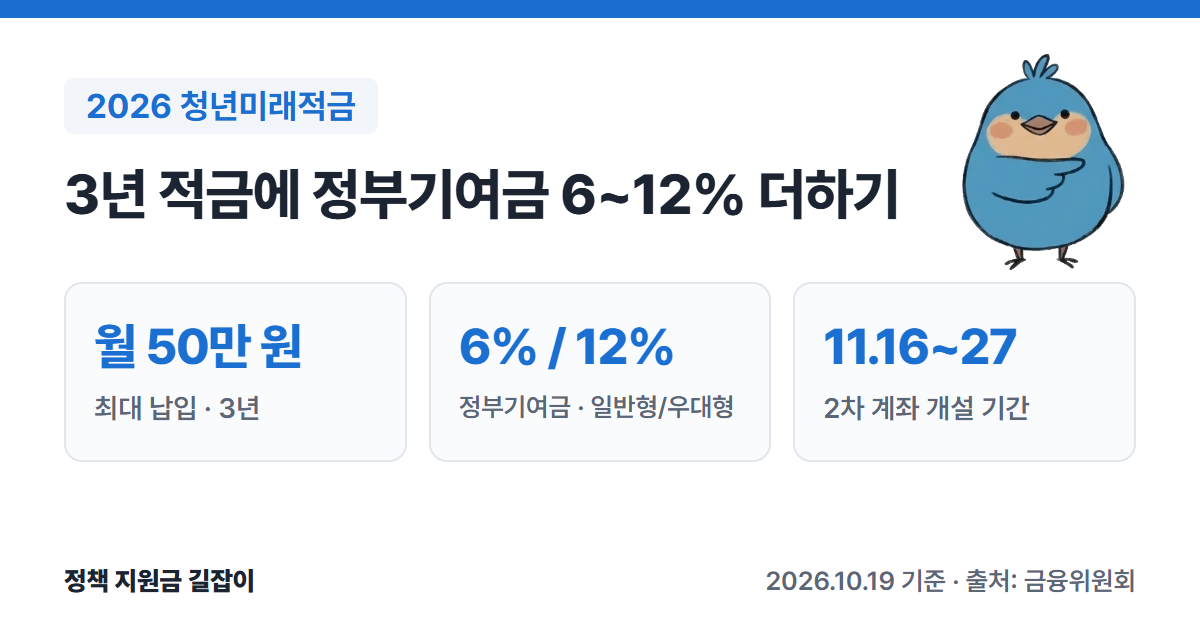
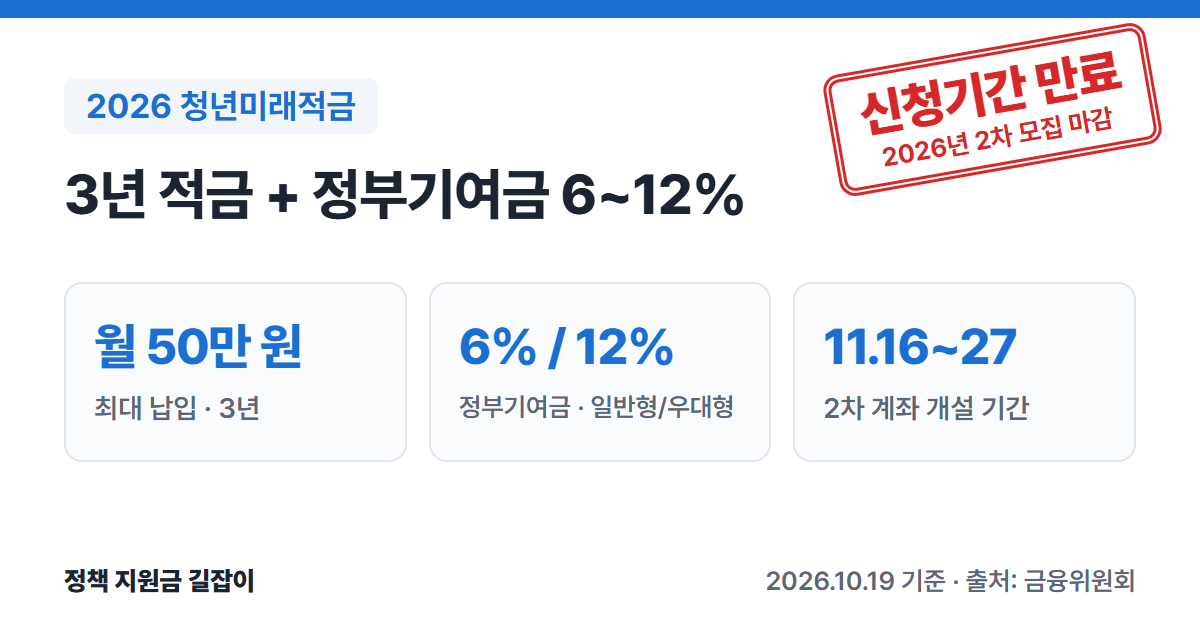
청년미래적금 2차 마감: 신청기간 만료 도장·검색 제외, 본문 시점 문장 정리(스포츠·신혼희망타운은 선정·당첨 절차가 남아 도장 보류)

diff --git a/_tools/card.html b/_tools/card.html
@@ -411,9 +411,10 @@ const cards = {
   },
   "youth-future-savings-2026": {
     label: "2026 청년미래적금",
-    title: "3년 적금에 정부기여금 6~12% 더하기",
+    title: "3년 적금 + 정부기여금 6~12%",
     stats: [["월 50만 원", "최대 납입 · 3년"], ["6% / 12%", "정부기여금 · 일반형/우대형"], ["11.16~27", "2차 계좌 개설 기간"]],
-    foot: "2026.10.19 기준 · 출처: 금융위원회"
+    foot: "2026.10.19 기준 · 출처: 금융위원회",
+    expired: "2026년 2차 모집"
   },
   "reduced-hours-childcare-2026": {
     label: "2026 육아기 근로시간 단축",
@@ -505,6 +506,12 @@ const cards = {
     title: "전세사기 최소보장제",
     stats: [["보증금 1/3", "회복 못 한 부족분 지급"], ["2,333만 원", "보증금 1억·배당 1천만 원"], ["11.10.~", "LH 청약플러스 사전 신청"]],
     foot: "2026.11.12 기준 · 출처: 국토교통부·LH"
+  },
+  "childbirth-pension-credit-2026": {
+    label: "국민연금 출산크레딧",
+    title: "아이 낳으면 연금 가입기간 더 인정",
+    stats: [["첫째 12개월", "2026.1.1. 이후 첫째부터"], ["둘째 15개월", "2027.1.1. 이후 얻는 둘째"], ["셋째부터 18개월", "2026년 이후 자녀 · 상한 없음"]],
+    foot: "2026.11.27 기준 · 출처: 국민연금법·보건복지부"
   }
 };
 const c = cards[decodeURIComponent(location.hash.slice(1))];

diff --git a/_posts/2026-10-19-youth-future-savings-2026.md b/_posts/2026-10-19-youth-future-savings-2026.md
@@ -4,6 +4,8 @@ title: "2026 청년미래적금 총정리: 월 50만 원 3년, 정부기여금 6
 description: "만 19~34세 청년이 3년 동안 매달 1천 원~50만 원을 넣으면, 정부가 납입액의 6%(일반형) 또는 12%(우대형)를 더해 줘요. 이자소득은 비과세예요."
 date: 2026-10-19 22:40:00 +0900
 deadline: 2026-11-27
+noindex: true
+sitemap: false
 deadline_note: "2차 모집"
 deadline_open: "2차 모집 신청은 10월 16일에 마감됐고, 선정된 분의 계좌 개설은 <b>2026년 11월 27일</b>까지예요."
 deadline_closed: "2차 모집은 신청(10월 16일)과 계좌 개설(<b>2026년 11월 27일</b>)까지 모두 끝났어요."
@@ -16,11 +18,11 @@ image: /assets/images/cards/youth-future-savings-2026.png
 청년도약계좌 신규 가입이 끝난 뒤 새로 나온 상품이에요.
 금융위원회 보도자료를 바탕으로 자격, 혜택, 2차 모집 일정과 다음 모집 전망을 정리했어요.
 
-![2026 청년미래적금 요약: 매월 최대 50만 원 3년 납입, 정부기여금 일반형 6% 우대형 12%, 2차 모집 계좌개설 11월 16일~27일](/assets/images/cards/youth-future-savings-2026.png){: .summary-card}
+![(신청기간 만료, 2026년 2차 모집 마감) 2026 청년미래적금 요약: 매월 최대 50만 원 3년 납입, 정부기여금 일반형 6% 우대형 12%, 2차 모집 계좌개설 11월 16일~27일](/assets/images/cards/youth-future-savings-2026.png){: .summary-card}
 
 > 💡 **핵심 요약**
 > - **만 19~34세** 청년이 3년 동안 매달 **1천 원~50만 원**을 넣으면, 정부가 납입액의 **6%(일반형)** 또는 **12%(우대형)**를 더해 줘요. 이자소득은 **비과세**예요. (출처①)
-> - 2차 가입 신청은 **10월 16일에 끝났어요.** 신청한 사람은 심사를 거쳐 **11월 16~27일**에 꼭 계좌를 열어야 해요. (출처①)
+> - 2차 가입 신청은 **10월 16일에 끝났어요.** 가입 가능 안내를 받은 사람의 계좌 개설도 **11월 27일**에 끝났어요(11월 28일 갱신). (출처①③)
 > - 정부는 2027년에 **모든 청년**으로 대상을 넓히고 우대형 기여금을 **15%**(지방 중소기업 25%)로 올리는 예산안을 국회에 냈어요. 3차 모집은 이 예산안이 확정된 뒤 진행될 예정이에요. (출처①)
 
 > **출처 표시 방법**: 본문의 (출처①) 같은 표시는 글 끝 출처 목록의 번호와 같아요.
@@ -167,7 +169,7 @@ image: /assets/images/cards/youth-future-savings-2026.png
 ## 자주 묻는 질문
 
 **Q. 지금 새로 가입할 수 있나요?**
-아니요. 2차 신청은 10월 16일에 끝났어요. 지금(11월 16~27일, 토·일 제외)은 2차에 신청해 가입 가능 안내를 받은 분이 계좌를 여는 기간이에요. 새로 가입하려면 3차 모집을 기다려야 하고, 3차 일정은 아직 나오지 않았어요. (출처①③)
+아니요. 2차 신청은 10월 16일에 끝났어요. 2차에 신청해 가입 가능 안내를 받은 분의 계좌 개설(11월 16~27일, 토·일 제외)도 끝났어요. 새로 가입하려면 3차 모집을 기다려야 하고, 3차 일정은 아직 나오지 않았어요. (출처①③)
 
 **Q. 매달 꼭 50만 원을 넣어야 하나요?**
 아니요. **1천 원부터 50만 원까지** 자유롭게 넣을 수 있어요. 기여금은 넣은 금액에 비율을 곱해 줘요. (출처①)
